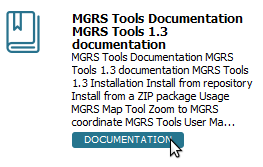
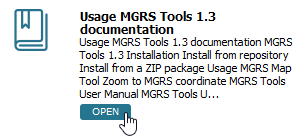
Updates lesson with new button and search behaviour

diff --git a/boundlessconnect/_lessons/connect_login_search/__init__.py b/boundlessconnect/_lessons/connect_login_search/__init__.py
@@ -22,13 +22,12 @@ lesson.addStep("Enable Boundless Connect Panel",
 lesson.addStep("Enter username and password",
                "03_enter_username_and_password.md",
                steptype=Step.MANUALSTEP)
-lesson.addStep("Set master password", "04_set_master_password.md",
+lesson.addStep("Set master password",
+               "04_set_master_password.md",
                steptype=Step.MANUALSTEP)
 lesson.addStep("Confirm login",
                "05_confirm_login.md",
                steptype=Step.MANUALSTEP)
-
-
 lesson.addStep("Search for Knowledge Content",
                "06_searching_for_knowledge_content.md",
                steptype=Step.MANUALSTEP)
@@ -38,17 +37,21 @@ lesson.addStep("Filter Knowledge results",
 lesson.addStep("Open Knowledge resources",
                "08_open_knowledge_resources.md",
                steptype=Step.MANUALSTEP)
+lesson.addStep("Search for all resources",
+               "09_search_for_all_resources.md",
+               steptype=Step.MANUALSTEP)
 lesson.addStep("Search for data",
-               "09_search_for_data.md",
+               "10_search_for_data.md",
                steptype=Step.MANUALSTEP)
 lesson.addStep("Add data to map",
-               "10_add_data_to_map.md",
+               "11_add_data_to_map.md",
                steptype=Step.MANUALSTEP)
 lesson.addStep("Add data to default project",
-               "11_add_data_to_default_project.md",
+               "12_add_data_to_default_project.md",
                steptype=Step.MANUALSTEP)
 lesson.addStep("Search for plugins",
-               "12_search_for_plugins.md",
+               "13_search_for_plugins.md",
                steptype=Step.MANUALSTEP)
-lesson.addStep("Install plugins", "13_install_plugins.md",
+lesson.addStep("Install plugins",
+               "14_install_plugins.md",
                steptype=Step.MANUALSTEP)

diff --git a/boundlessconnect/_lessons/connect_login_search/09_search_for_all_resourses.md b/boundlessconnect/_lessons/connect_login_search/09_search_for_all_resourses.md
@@ -1,0 +1,31 @@
+Under any of the tabs, it is possible to list all available resources by
+clicking the **Search** icon (or pressing `Enter` on your keyboard)
+without entering any keyword.
+
+In the **Knowledge** tab searching without a keyword will return
+thousands of results, which may end up being useless. On the other hand
+if you filter the search using the categories its another story. For example, selecting the *Lessons* category only, will list all
+lessons available.
+
+1. Click the widget down arrow to expand the categories.
+
+    ![open_search_filter_2.png](open_search_filter_2.png)
+
+2. From the list of categories, deselect the **Documentation** checkbox
+   and select **Lessons** instead.
+
+    ![select_lessons_category.png](select_lessons_category.png)
+
+3. Now, delete the `mgrs` keyword form the search field, and click the
+   magnifying glass icon again to re-run the search.
+
+    ![run_empty_search.png](run_empty_search.png)
+
+Now, your search should return all lessons groups available.
+
+![list_all_lessons.png](list_all_lessons.png)
+
+You can click the **Install** button underneath each result to install
+the lessons.
+
+When you are done, click **Next Step**.

diff --git a/boundlessconnect/_lessons/connect_login_search/08_open_knowledge_resources.md b/boundlessconnect/_lessons/connect_login_search/08_open_knowledge_resources.md
@@ -2,7 +2,7 @@ Depending on the resources category, different actions can be performed with it.
 In the **Knowledge** tab, apart from the Lessons (that can be downloaded and
 installed), all other resources will open in your default browser.
 
-1. From the list of results, click the **Documentation** button  under the *MGRS
+1. From the list of results, click the **Open** button  under the *MGRS
 Tools Documentation MGRS Tools 1.3 documentation* result.
 
     ![open_documentation.png](open_documentation.png)

diff --git a/boundlessconnect/_lessons/connect_login_search/10_search_for_data.md b/boundlessconnect/_lessons/connect_login_search/10_search_for_data.md
@@ -12,4 +12,8 @@ A list of available mapbox data resources will show.
 
 ![search_data_mapbox_results.png](search_data_mapbox_results.png)
 
+**Note:** You can list all available data resources by
+clicking the **Search** icon (or pressing `Enter` on your keyboard)
+without entering any keyword.
+
 When you are done, click **Next Step**.

diff --git a/boundlessconnect/_lessons/connect_login_search/13_search_for_plugins.md b/boundlessconnect/_lessons/connect_login_search/13_search_for_plugins.md
@@ -13,4 +13,8 @@ A list of available plugins will show.
 
 ![plugins_results.png](plugins_results.png)
 
+**Note:** You can list all available plugins by
+clicking the **Search** icon (or pressing `Enter` on your keyboard)
+without entering any keyword.
+
 When you are done, click **Next Step**.
